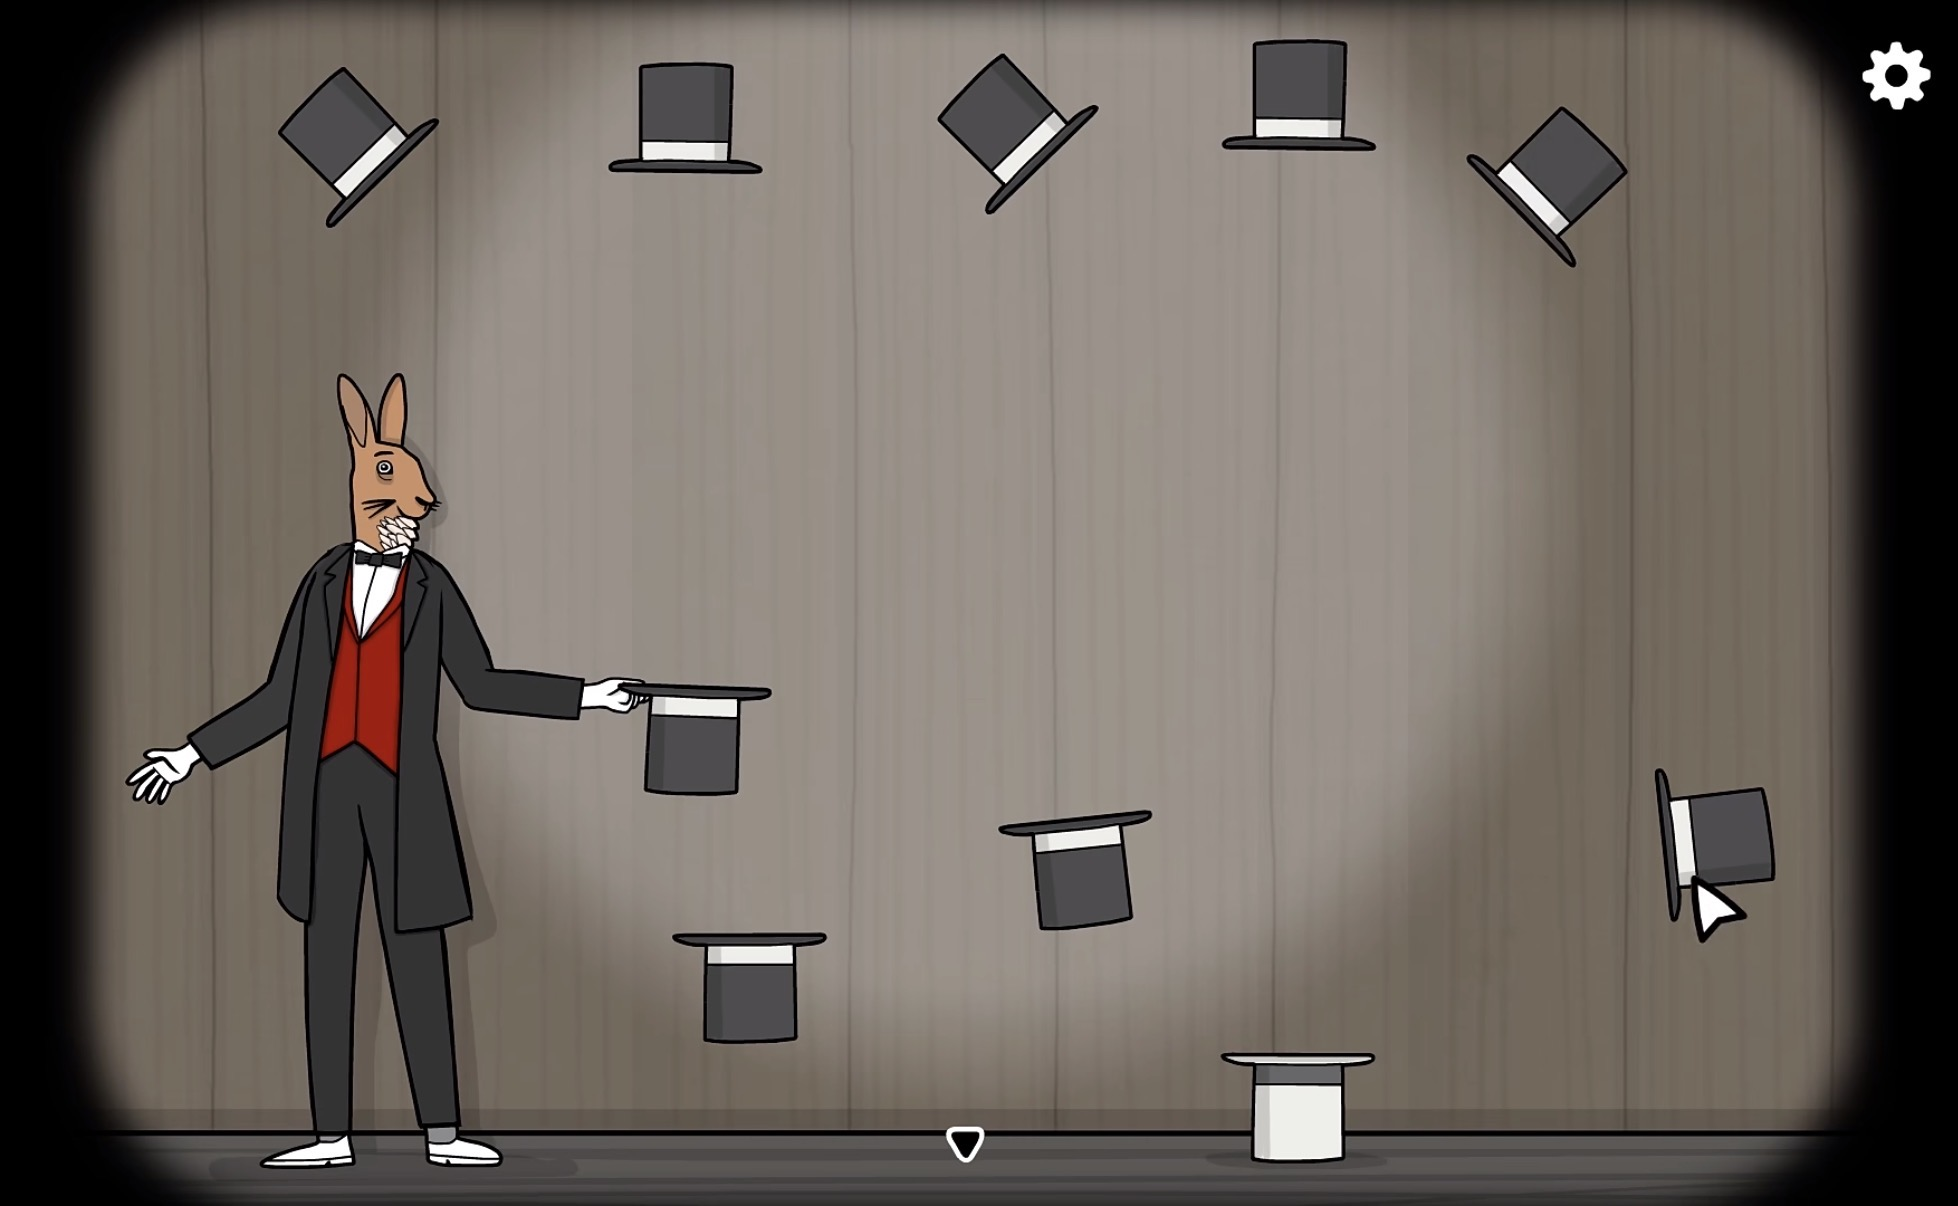
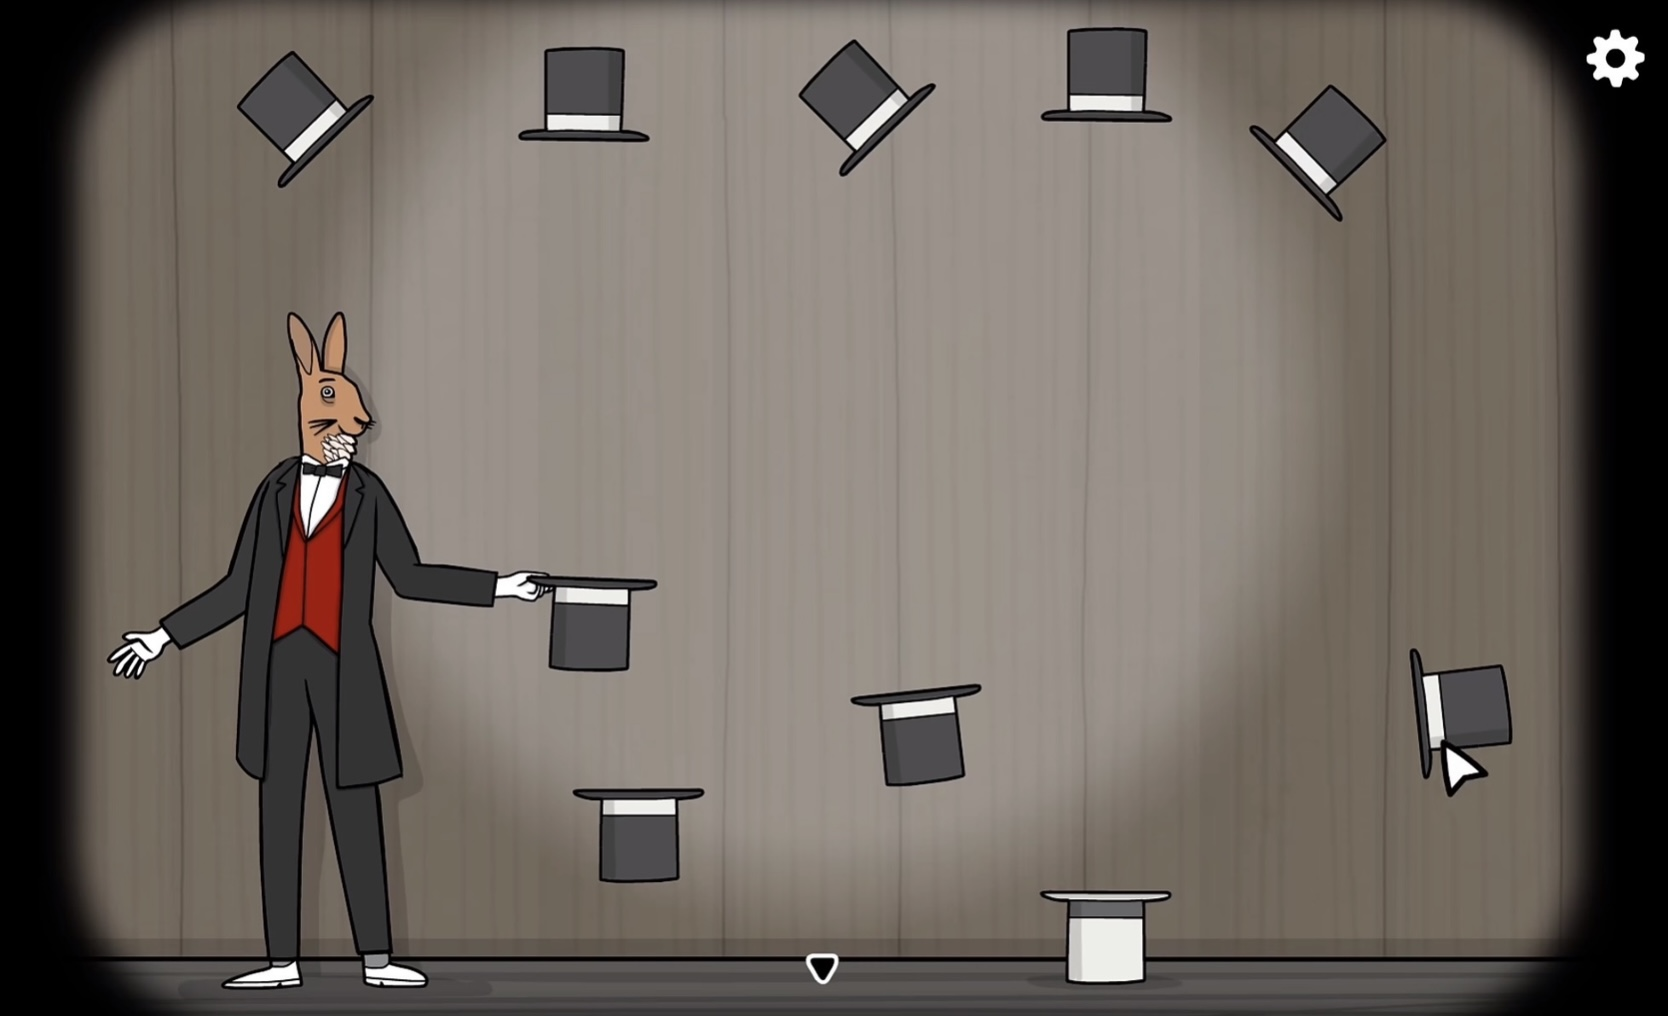
replace image

diff --git a/README.md b/README.md
@@ -6,4 +6,4 @@ These two games both use simple visual design and subtle interaction to create a
 
 ![Limbo Example](images/limbo.jpg)
 
-![Rusty Lake Example](images/Rustylake.JPG)
+![Rusty Lake Example](images/rustylake.jpg)
